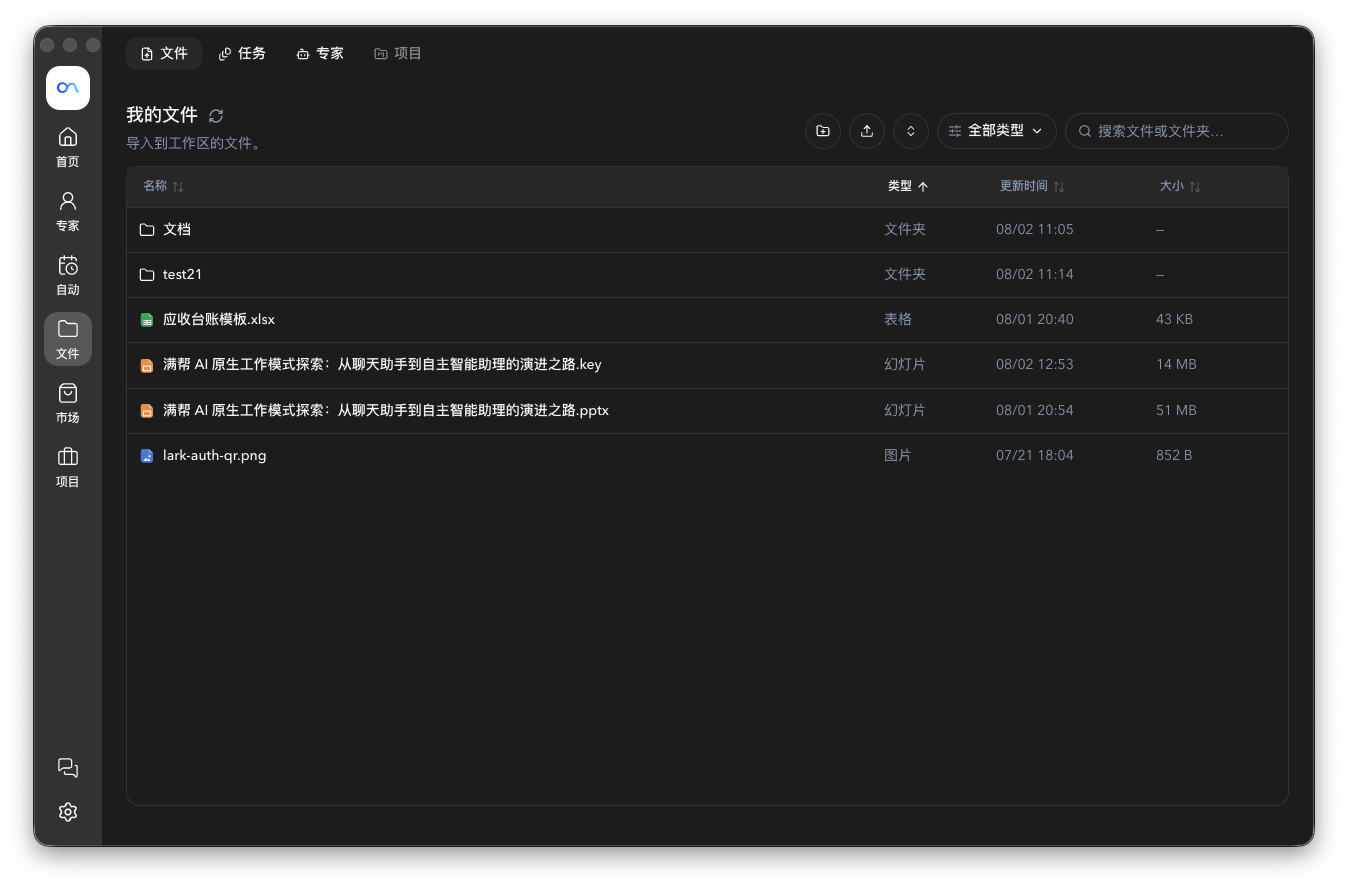
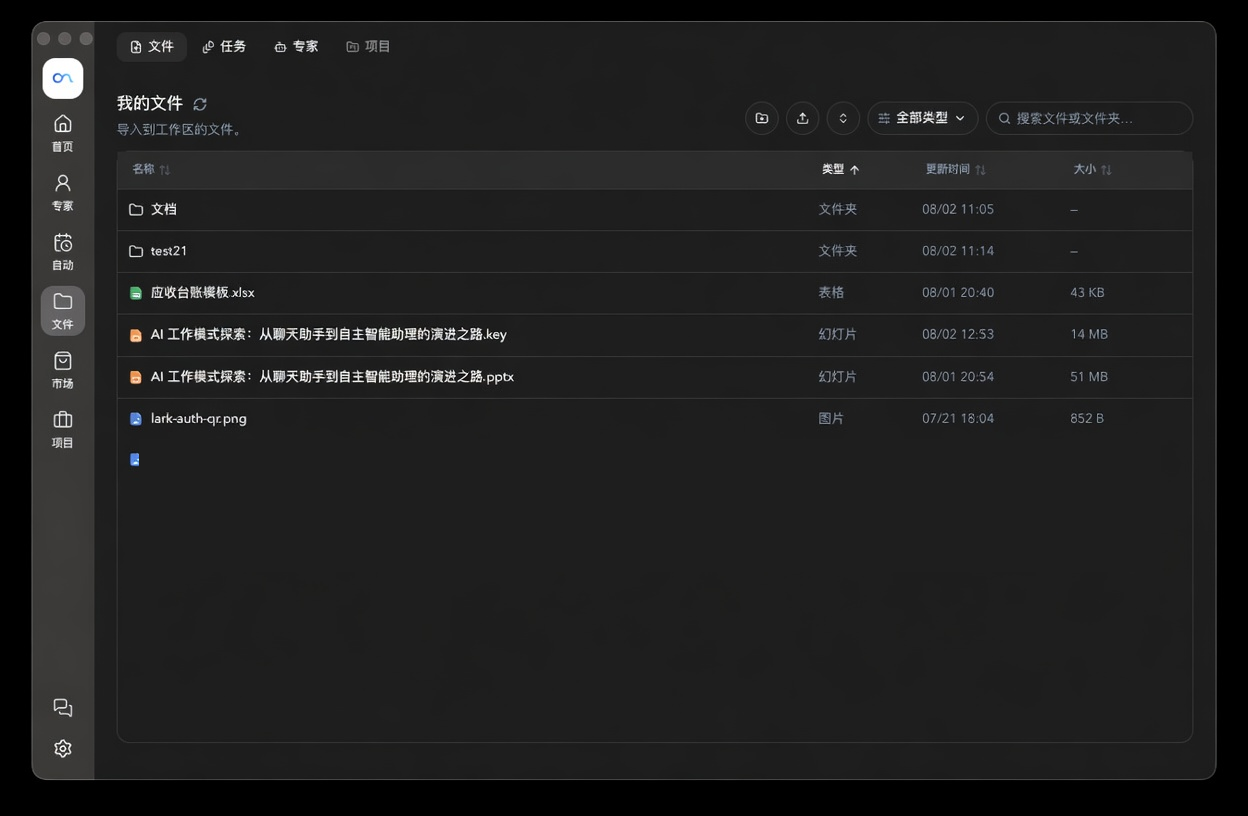
docs(website): refresh files screenshot and layout spacing
Update the files-area capture and tighten handbook gutters, sidebar
active state, and content alignment with the prev/next footer.

diff --git a/website/docs/.vitepress/theme/custom.css b/website/docs/.vitepress/theme/custom.css
@@ -77,17 +77,35 @@
 /* —— Layout ——
  * VitePress pins .content-container to 688px (scoped). Override with
  * !important so handbook body + product screenshots can use the main column.
+ * Keep horizontal gutters so content / outline never hug the viewport edges.
  */
+:root {
+  --oma-doc-gutter-x: 28px;
+  --oma-doc-aside-gap: 32px;
+  --oma-doc-aside-edge: 28px;
+  /* Keep screenshots / tables / prev-next on the same content width */
+  --oma-doc-img-bleed: 0px;
+}
+
 .VPDoc.has-sidebar.has-aside .container,
 .VPDoc.has-sidebar .container {
   max-width: var(--vp-layout-max-width) !important;
 }
 
+@media (min-width: 960px) {
+  .VPDoc {
+    /* outer air under the nav, both sides of the main doc frame */
+    padding-left: var(--oma-doc-gutter-x) !important;
+    padding-right: var(--oma-doc-gutter-x) !important;
+  }
+}
+
 @media (min-width: 1280px) {
   :root {
-    --oma-doc-content-max: 84rem;
-    /* Screenshots expand slightly past text measure into outline gap */
-    --oma-doc-img-bleed: 2rem;
+    --oma-doc-content-max: 78rem;
+    --oma-doc-gutter-x: 36px;
+    --oma-doc-aside-gap: 40px;
+    --oma-doc-aside-edge: 32px;
   }
 
   .VPDoc .container {
@@ -97,22 +115,41 @@
 
 @media (min-width: 1440px) {
   :root {
-    --oma-doc-content-max: 92rem;
-    --oma-doc-img-bleed: 4rem;
+    --oma-doc-content-max: 86rem;
+    --oma-doc-gutter-x: 48px;
+    --oma-doc-aside-gap: 48px;
+    --oma-doc-aside-edge: 40px;
   }
 }
 
 @media (min-width: 1680px) {
   :root {
-    --oma-doc-content-max: 100rem;
-    --oma-doc-img-bleed: 6rem;
+    --oma-doc-content-max: 92rem;
+    --oma-doc-gutter-x: 56px;
+    --oma-doc-aside-gap: 56px;
+    --oma-doc-aside-edge: 48px;
   }
 }
 
-/* Main article column: fill available space between sidebar and outline */
+/* Main article column: wide but with breathing room beside outline */
 .VPDoc .content {
   max-width: var(--oma-doc-content-max) !important;
   flex-grow: 1;
+}
+
+@media (min-width: 960px) {
+  .VPDoc .content {
+    /* left of article + right gap before outline */
+    padding-left: 36px !important;
+    padding-right: 28px !important;
+  }
+}
+
+@media (min-width: 1280px) {
+  .VPDoc .content {
+    padding-left: 44px !important;
+    padding-right: 36px !important;
+  }
 }
 
 .VPDoc .content-container,
@@ -154,20 +191,59 @@
   color: var(--vp-c-text-3);
 }
 
-.VPSidebarItem.level-1 .text {
+/* Level-1 links: inset pill row (overrides scoped padding) */
+.VPSidebarItem.level-1 {
+  margin: 1px 0;
+}
+
+.VPSidebarItem.level-1 > .item {
+  border-radius: 8px;
+  margin: 0 8px;
+  padding: 0 10px !important;
+  transition: background-color 0.15s ease;
+}
+
+.VPSidebarItem.level-1 > .item:hover {
+  background-color: var(--vp-c-bg-soft);
+}
+
+.VPSidebarItem.level-1 .text,
+.VPSidebarItem.level-1 > .item .link > .text {
   font-size: 14px;
+  font-weight: 500;
+  color: var(--vp-c-text-2);
+  padding: 7px 0 !important;
+  line-height: 22px;
+}
+
+.VPSidebarItem.level-1.is-link > .item > .link:hover .text {
   color: var(--vp-c-text-1);
 }
 
-.VPSidebarItem.level-1.is-active > .item .text {
-  color: var(--vp-c-brand-1);
-  font-weight: 600;
+/* Active: full-width inset pill + left brand bar */
+.VPSidebarItem.level-1.is-active > .item {
+  background-color: rgba(37, 99, 235, 0.1) !important;
+  border-radius: 8px;
+  box-shadow: inset 3px 0 0 0 var(--vp-c-brand-1);
 }
 
-/* Active nav pill: soft blue wash, not purple */
-.VPSidebarItem.level-1.is-active > .item {
-  background-color: var(--vp-c-brand-soft);
-  border-radius: 8px;
+.VPSidebarItem.level-1.is-active > .item:hover {
+  background-color: rgba(37, 99, 235, 0.14) !important;
+}
+
+.VPSidebarItem.level-1.is-active > .item .text,
+.VPSidebarItem.level-1.is-active > .item .link > .text {
+  color: var(--vp-c-brand-1) !important;
+  font-weight: 600 !important;
+}
+
+.dark .VPSidebarItem.level-1.is-active > .item {
+  background-color: rgba(96, 165, 250, 0.12) !important;
+  box-shadow: inset 3px 0 0 0 var(--vp-c-brand-1);
+}
+
+.dark .VPSidebarItem.level-1.is-active > .item:hover {
+  background-color: rgba(96, 165, 250, 0.16) !important;
 }
 
 /* —— Top bar: single surface (theme-aware, no grey title slab) —— */
@@ -276,9 +352,22 @@
   display: none;
 }
 
-/* Outline */
+/* Outline — keep clear gap from article and from the viewport edge */
+@media (min-width: 1280px) {
+  .VPDoc .aside {
+    padding-left: var(--oma-doc-aside-gap) !important;
+    padding-right: var(--oma-doc-aside-edge) !important;
+    max-width: 280px;
+  }
+
+  .VPDoc .aside-container,
+  .VPDoc .aside-curtain {
+    width: 224px;
+  }
+}
+
 .VPDocAside {
-  padding-left: 16px;
+  padding-left: 0;
 }
 
 .VPDocAsideOutline .outline-title {
@@ -286,10 +375,12 @@
   font-weight: 600;
   letter-spacing: 0.02em;
   color: var(--vp-c-text-3);
+  margin-bottom: 8px;
 }
 
 .VPDocAside .outline-link {
   color: var(--vp-c-text-2);
+  line-height: 1.6;
 }
 
 .VPDocAside .outline-link.active,
@@ -334,6 +425,7 @@
 .vp-doc table {
   display: table;
   width: 100%;
+  max-width: 100%;
   font-size: 0.95em;
   border-collapse: collapse;
 }
@@ -359,12 +451,12 @@
   color: var(--vp-c-text-1);
 }
 
-/* Screenshots: edge-to-edge in content (no frame/chrome) */
+/* Screenshots: same content width as tables / prev-next (no extra bleed) */
 .vp-doc img,
 .vp-doc p > img {
   display: block;
-  width: calc(100% + var(--oma-doc-img-bleed));
-  max-width: calc(100% + var(--oma-doc-img-bleed));
+  width: 100%;
+  max-width: 100%;
   height: auto;
   margin: 1.25rem 0 1.5rem;
   border: none;
@@ -377,7 +469,7 @@
 .vp-doc > p:has(> img:only-child),
 .vp-doc p:has(> img:only-child) {
   margin: 1.25rem 0 1.5rem;
-  max-width: none;
+  max-width: 100%;
 }
 
 .vp-doc p:has(> img:only-child) > img {
@@ -462,11 +554,22 @@ body.oma-zoom-open {
 .VPDocFooter {
   margin-top: 3rem;
   border-top: 1px solid var(--vp-c-divider);
+  width: 100%;
+  max-width: 100%;
+  box-sizing: border-box;
+}
+
+/* Same column width as .vp-doc body (tables / screenshots) */
+.VPDocFooter .prev-next {
+  width: 100%;
+  max-width: 100%;
+  box-sizing: border-box;
 }
 
 .pager-link {
   border-color: var(--vp-c-border) !important;
   background: var(--vp-c-bg-elv) !important;
+  box-sizing: border-box;
 }
 
 @media (max-width: 1279px) {
